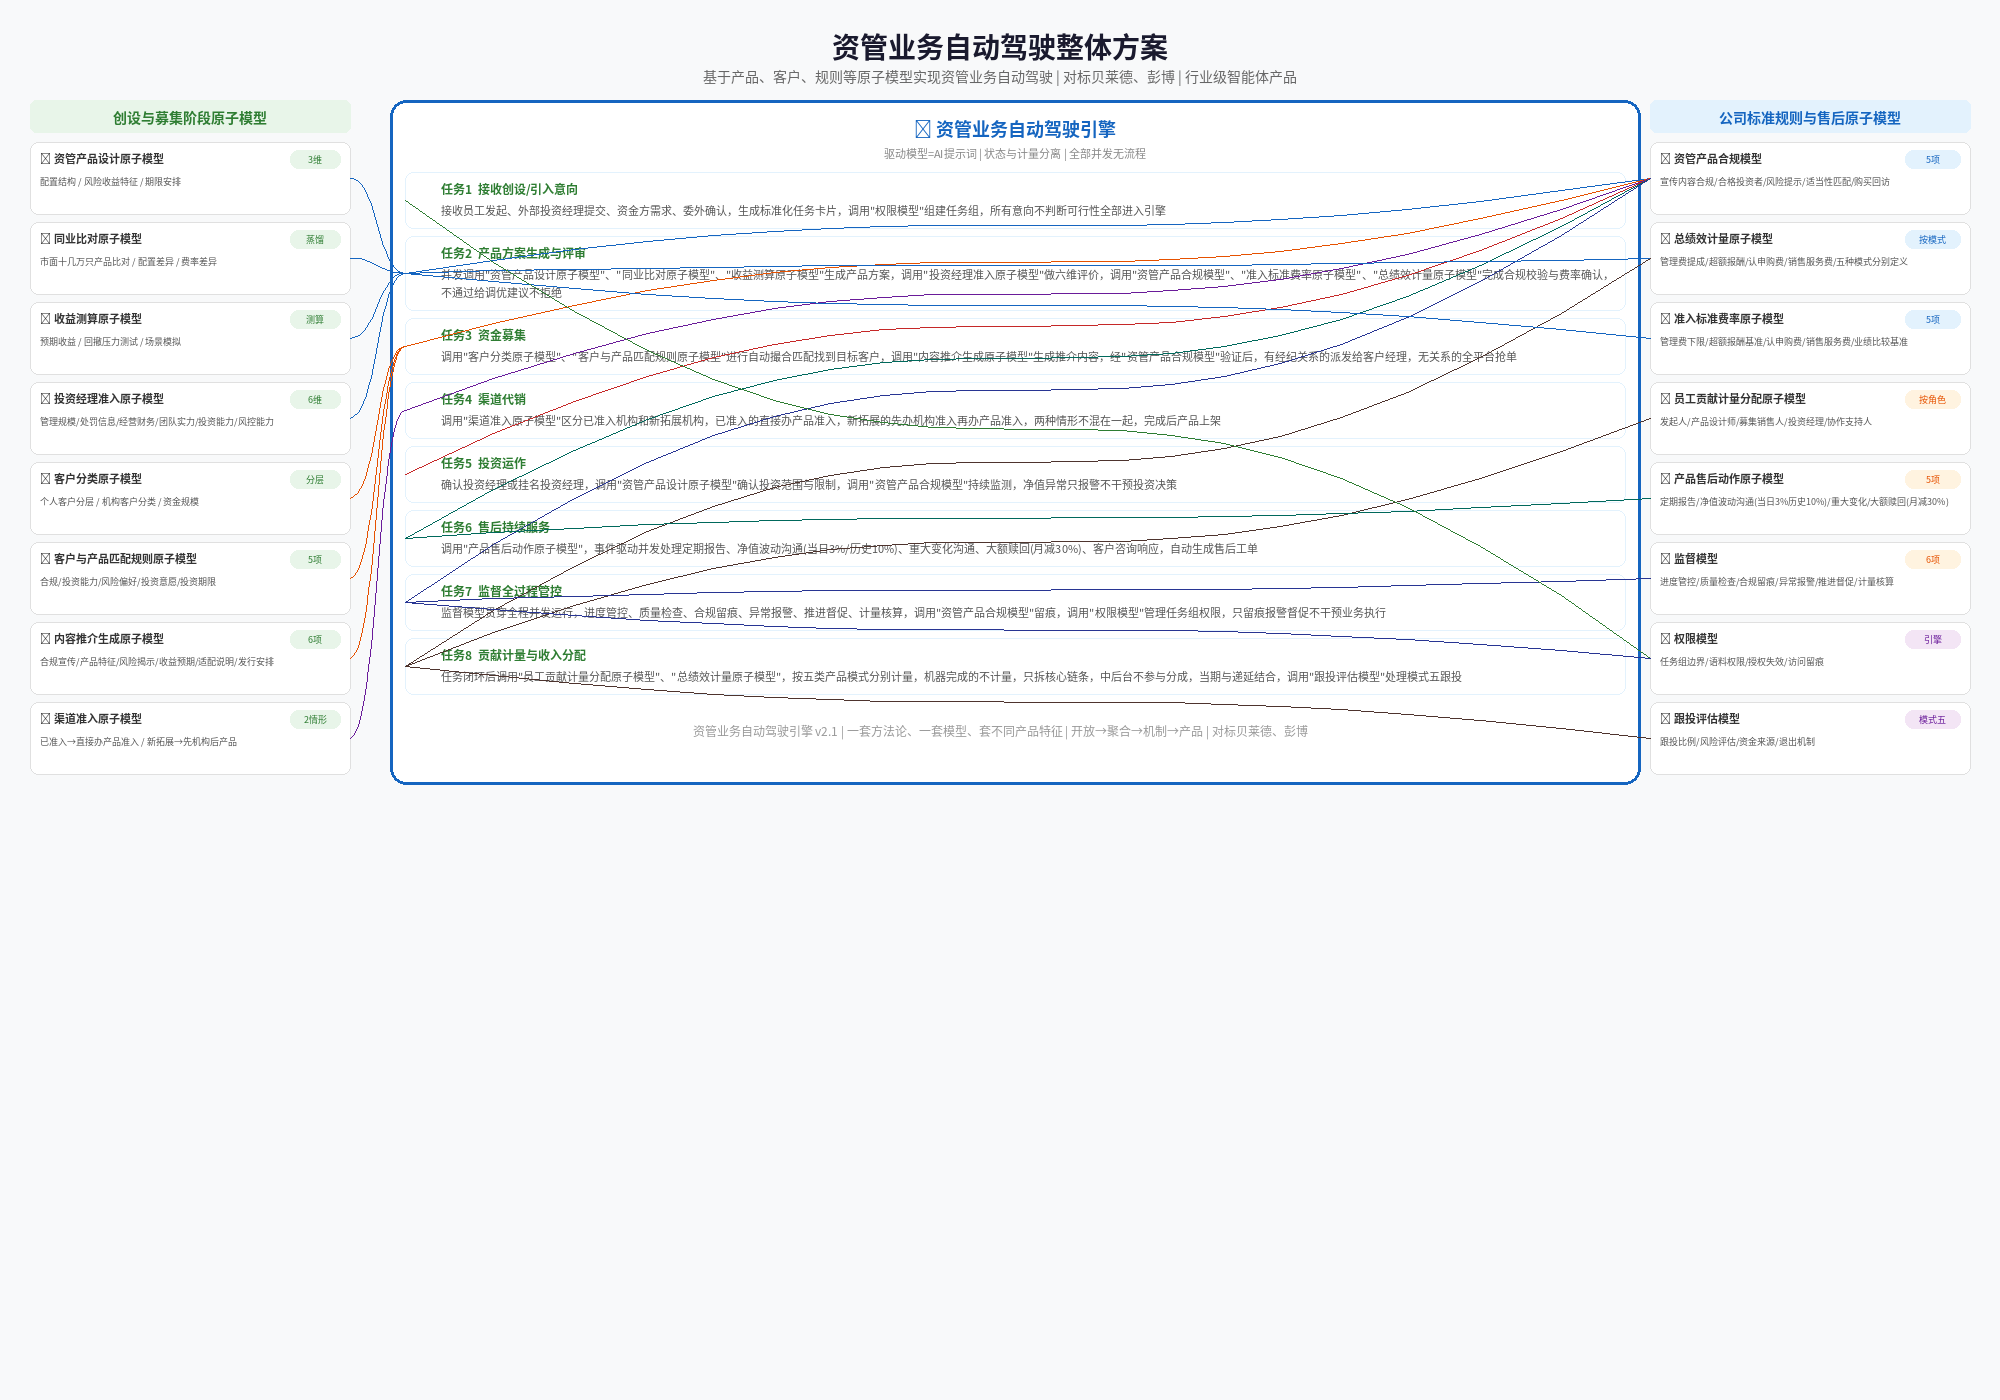
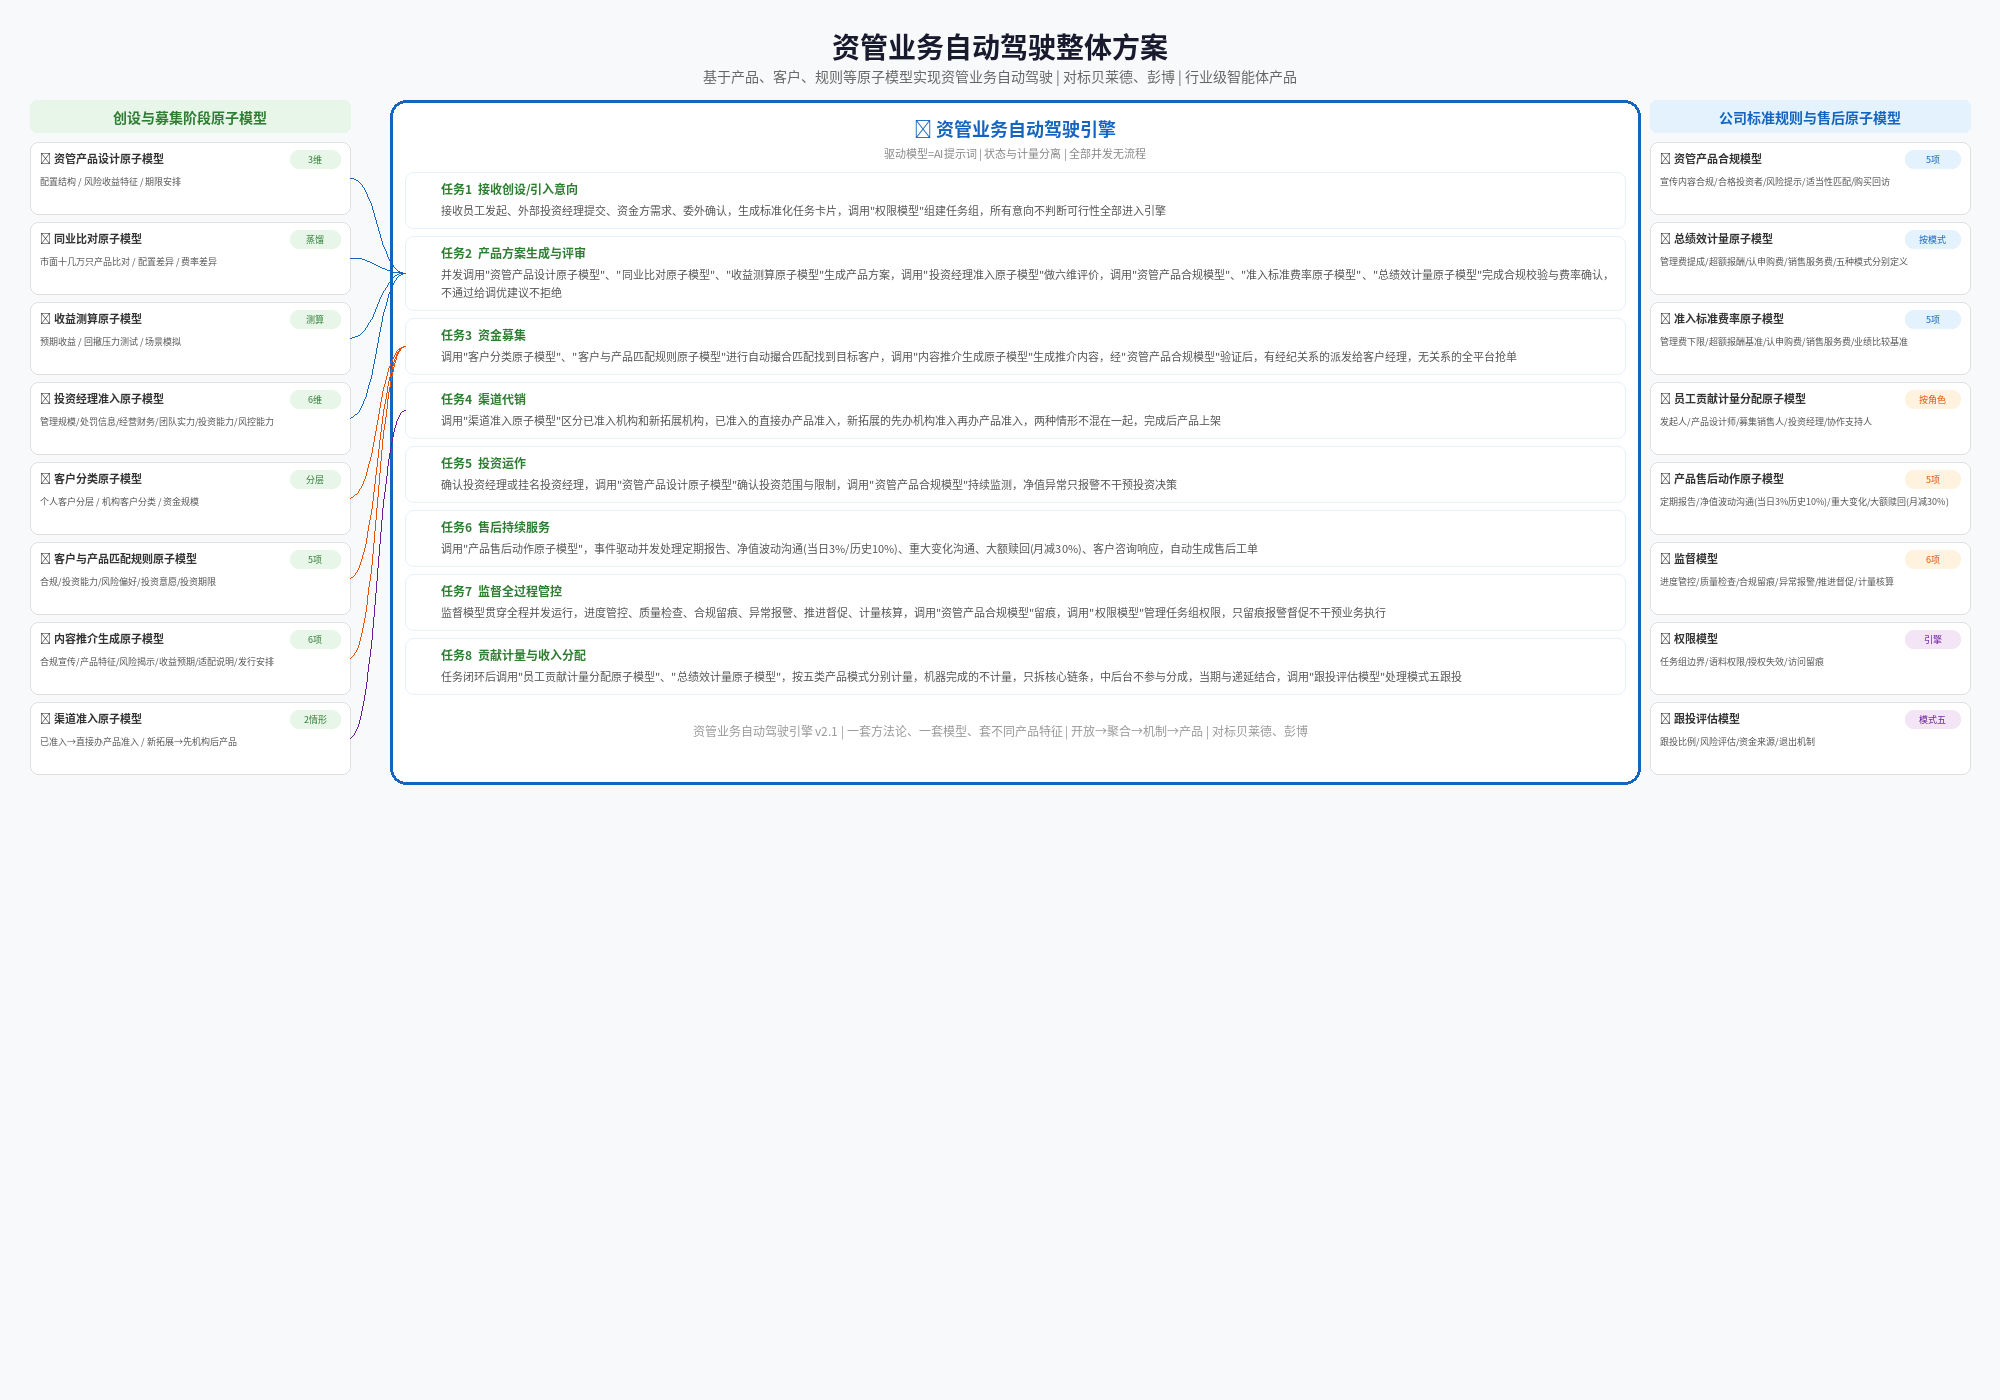
更新：资管方案架构图 - 移除右侧原子模型连线

Changed region(s): [[0.775, 0.1229, 0.806, 0.1536]]

diff --git a/diagrams/generate_asset_mgmt_diagram.py b/diagrams/generate_asset_mgmt_diagram.py
@@ -270,16 +270,7 @@ left_conn = [
     (7, 3),
 ]
 
-right_conn = [
-    (0, 1), (0, 2), (0, 3), (0, 4), (0, 5), (0, 6),
-    (1, 1), (1, 7),
-    (2, 1),
-    (3, 7),
-    (4, 5),
-    (5, 6),
-    (6, 0), (6, 6),
-    (7, 7),
-]
+right_conn = []
 
 for model_idx, task_idx in left_conn:
     lx, ly = left_card_positions[model_idx]
